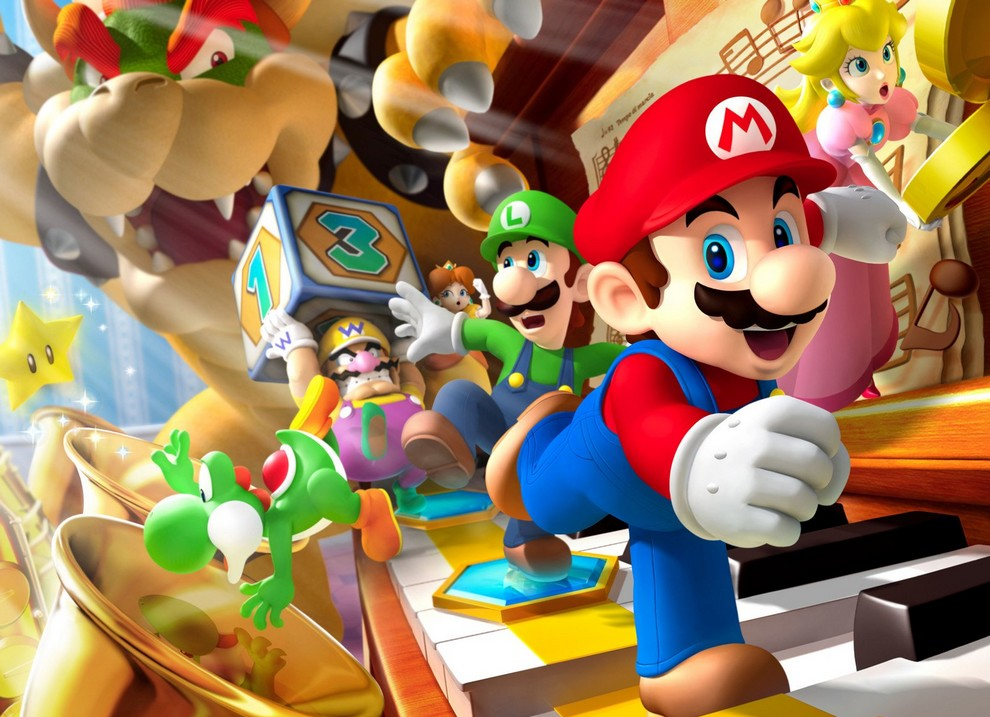
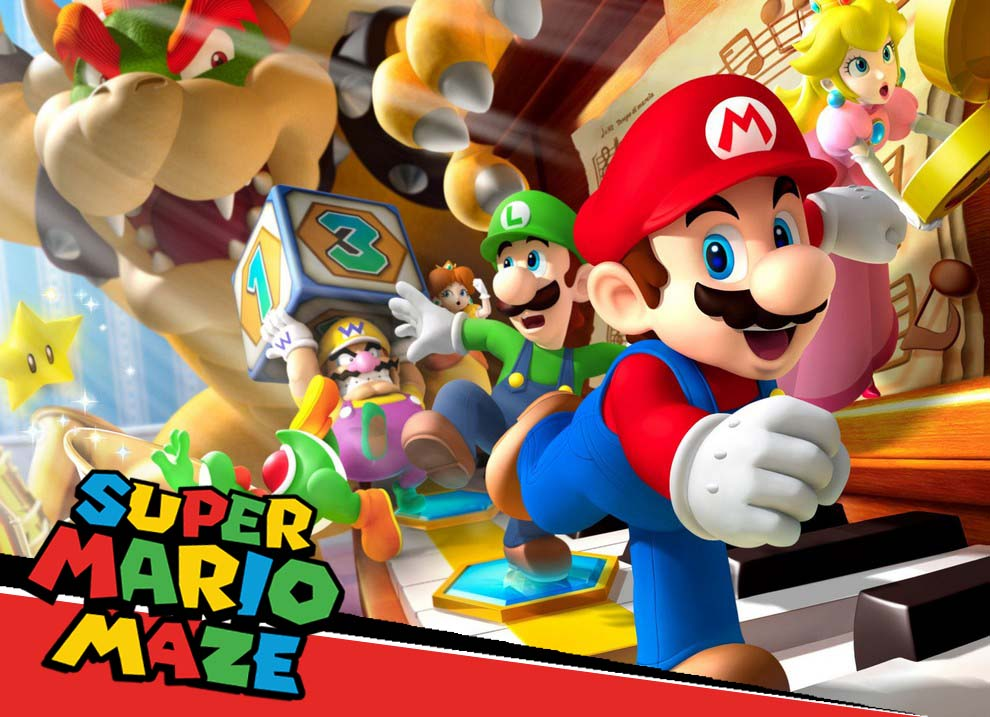
new deisgn menu + game

Changed region(s): [[0.0, 0.6444, 0.9394, 1.0]]

diff --git a/src/vue/MazeGameGUI.java b/src/vue/MazeGameGUI.java
@@ -6,7 +6,10 @@ import java.io.File;
 import java.util.*;
 import java.util.List;
 import javax.swing.*;
+import javax.swing.border.Border;
+import javax.swing.border.CompoundBorder;
 import javax.swing.border.EmptyBorder;
+import javax.swing.border.LineBorder;
 import tools.MazeImageProvider;
 import tools.MazeTreasureImage;
 import model.Coord;
@@ -29,6 +32,8 @@ public class MazeGameGUI extends JFrame implements MouseListener, MouseMotionLis
 	private static final long serialVersionUID = 1L;
 	private JLayeredPane layeredPane;
 	private JLabel tresorToCatch;
+	private JLabel bgGame;
+	private Icon bg;
 	private JLayeredPane mazeContainer;
 	private JPanel generalBoard;
 	private JPanel menu;
@@ -42,7 +47,7 @@ public class MazeGameGUI extends JFrame implements MouseListener, MouseMotionLis
 	private JLabel scoreYoshi;
 	private JLabel scoreLuigi;
 	private JLabel scoreToad;
-	private JLabel player;
+	private JLabel player,playerText;
 	private ImagePanel contentPane;
 	private int xAdjustment;
 	private JButton rotateLeftButton, rotateRightButton;
@@ -72,18 +77,41 @@ public class MazeGameGUI extends JFrame implements MouseListener, MouseMotionLis
 		mazeContainer = new JLayeredPane();
 		mazeContainer.setPreferredSize(windowSize);
 		mazeContainer.setBounds(0, 0, windowSize.width, windowSize.height);
-		
+		Font myFont = new Font("Calibri", Font.ITALIC | Font.BOLD, 18);
+
+	    
 		// on cree le container du menu
 	    b1 = Box.createHorizontalBox();
 		b1.setOpaque(true); // background gris desactive
 		grpButton = new ButtonGroup();
-		nb2Button = new JRadioButton("2 joueurs");
-		nb3Button = new JRadioButton("3 joueurs");
-		nb4Button = new JRadioButton("4 joueurs");
+		nb2Button = new JRadioButton("2 JOUEURS");
+		nb3Button = new JRadioButton("3 JOUEURS");
+		nb4Button = new JRadioButton("4 JOUEURS");
+		
+		nb2Button.setFont(myFont);
+		nb3Button.setFont(myFont);
+		nb4Button.setFont(myFont);
+		
+		nb2Button.setForeground(Color.WHITE);
+		nb2Button.setBackground(Color.BLACK);
+		Border lineRadio1 = new LineBorder(Color.WHITE);
+		Border marginRadio1 = new EmptyBorder(8, 35, 8, 35);
+		Border compoundRadio1 = new CompoundBorder(lineRadio1, marginRadio1);
+		nb2Button.setBorder(compoundRadio1);
 
-		nb2Button.setOpaque(false);
-		nb3Button.setOpaque(false);
-		nb4Button.setOpaque(false);
+		nb3Button.setForeground(Color.WHITE);
+		nb3Button.setBackground(Color.BLACK);
+		Border lineRadio2 = new LineBorder(Color.WHITE);
+		Border marginRadio2 = new EmptyBorder(8, 35, 8, 35);
+		Border compoundRadio2 = new CompoundBorder(lineRadio2, marginRadio2);
+		nb3Button.setBorder(compoundRadio2);
+		
+		nb4Button.setForeground(Color.WHITE);
+		nb4Button.setBackground(Color.BLACK);
+		Border lineRadio3 = new LineBorder(Color.WHITE);
+		Border marginRadio3 = new EmptyBorder(8, 35, 8, 35);
+		Border compoundRadio3 = new CompoundBorder(lineRadio3, marginRadio3);
+		nb4Button.setBorder(compoundRadio3);
 		
 		// ajout des boutons radio dans le groupe bg
 		grpButton.add(nb2Button);
@@ -110,12 +138,26 @@ public class MazeGameGUI extends JFrame implements MouseListener, MouseMotionLis
 		b1.add(nb2Button);
 		b1.add(nb3Button);
 		b1.add(nb4Button);
+		b1.setBorder(BorderFactory.createMatteBorder(
+                1, 1, 1, 1, Color.WHITE));
 		nb2Button.setSelected(true);
 		
 		b2 = Box.createHorizontalBox();
 		b2.setOpaque(false); // background gris desactive
 		// Lancer le jeu
-		okButton = new JButton("Lancer");
+		
+		okButton = new JButton("JOUER");
+		okButton.setForeground(Color.WHITE);
+		okButton.setBackground(Color.BLACK);
+		Border line = new LineBorder(Color.WHITE);
+		Border margin = new EmptyBorder(8, 35, 8, 35);
+		Border compound = new CompoundBorder(line, margin);
+		okButton.setBorder(compound);
+		
+		
+		
+		okButton.setFont(myFont);
+		okButton.setIcon(new ImageIcon(getClass().getResource("../images/icon_play.png")));
 		okButton.addActionListener(new ActionListener() {
 			public void actionPerformed(ActionEvent e) {
 				initMazeGame(nbPlayer);	
@@ -141,7 +183,7 @@ public class MazeGameGUI extends JFrame implements MouseListener, MouseMotionLis
 		contentPane.setPreferredSize(windowSize);
 		setContentPane(contentPane);	
 	}
-	
+
 	public void initMazeGame(int nbPlayer) {
 		Dimension windowSize = new Dimension(950,1000);		
 		Icon imageIcon;
@@ -156,7 +198,8 @@ public class MazeGameGUI extends JFrame implements MouseListener, MouseMotionLis
 		JLabel extraCardImage;	
 		
 		
-		setContentPane(mazeContainer);
+	   	setContentPane(mazeContainer);
+	   	
 		repaint();
 		pack();
 		
@@ -207,17 +250,24 @@ public class MazeGameGUI extends JFrame implements MouseListener, MouseMotionLis
 		}
 		
 		//On crée le panel du joueur actif
-		activePlayer = new JPanel(new BorderLayout());
+		activePlayer = new JPanel(new BorderLayout(1,2));
 		
 		//On crée le label sur lequel le joueur actif sera récupéré
 		player = new JLabel();
-		
+		playerText = new JLabel();
+		playerText.setText("JOUEUR  :" + " ");
 		//On initialise le joueur devant jouer à "Mario"
-		player.setText("Tour du joueur : Mario");
+		File g = new File("");
+		String path = "/src/images/";
+		String ret = g.getAbsolutePath() + path + "pion_rouge.png";
+		bg = new ImageIcon(ret); 
+		player.setIcon(bg);
+		
 		
 		//On ajoute le JLabel sur le JPanel
-		activePlayer.add(player);
-		
+		activePlayer.add(playerText,BorderLayout.PAGE_START);
+		activePlayer.add(player,BorderLayout.PAGE_END);
+		activePlayer.setOpaque(false);		
 		//On definit la taille de la grille generale
 		generalBoard.setPreferredSize(windowSize);
 		generalBoard.setBounds(0, 0, windowSize.width, windowSize.height);
@@ -367,15 +417,24 @@ public class MazeGameGUI extends JFrame implements MouseListener, MouseMotionLis
 		//On cree la zone pour la pile de cartes
 		tresorToCatch.setIcon(imageTreasureToCatch);
 
+		g = new File("");
+		path = "/src/images/";
+		 ret = g.getAbsolutePath() + path + "bgGame.jpg";
+		
+		bg = new ImageIcon(ret);
+		bgGame = new JLabel(); 
+		bgGame.setIcon(bg);
+		
 		generalBoard.add(tresorToCatch,"pos 0.892al 0.458al");
 		generalBoard.add(mazeBoard, "pos 0 0");
 		generalBoard.add(tresorCard, "pos 0.93al 0.45al");
 		generalBoard.add(extraCardPane, "pos 0.92al 0.03al"); //AbsoluteLayout : on positionne en pourcentage de la fenetre
 		generalBoard.add(rotateLeftButton, "pos 0.915al 0al");
 		generalBoard.add(rotateRightButton, "pos 0.91al 0.135al");
-		generalBoard.add(activePlayer, "pos 0.94al 0.25al");
+		generalBoard.add(activePlayer, "pos 0.901al 0.25al");
 		generalBoard.add(scores, "pos 0.98al 0.65al");
-
+		generalBoard.add(bgGame,"pos 0 0");
+		
 		mazeContainer.add(generalBoard);
 		// TODO n'ecouter que les pions eventuellement
 		mazeBoard.addMouseListener(this);
@@ -553,18 +612,23 @@ public class MazeGameGUI extends JFrame implements MouseListener, MouseMotionLis
 			}
 
 			this.mazeGameControler.switchJoueur();
+			File g = new File("");
+			String path = "/src/images/";
+			String ret = "";
 			if(mazeGameControler.getColorCurrentPlayer() == Couleur.ROUGE) {
-				player.setText("Tour du joueur : Mario");
+				ret = g.getAbsolutePath() + path + "pion_rouge.png";
 			}
 			else if(mazeGameControler.getColorCurrentPlayer() == Couleur.BLEU) {
-				player.setText("Tour du joueur : Luigi");
+				ret = g.getAbsolutePath() + path + "pion_bleu.png";
 			}
 			else if(mazeGameControler.getColorCurrentPlayer() == Couleur.JAUNE) {
-				player.setText("Tour du joueur : Yoshi");
+				ret = g.getAbsolutePath() + path + "pion_jaune.png";
 			}
 			else if(mazeGameControler.getColorCurrentPlayer() == Couleur.VERT) {
-				player.setText("Tour du joueur : Toad");
+				ret = g.getAbsolutePath() + path + "pion_vert.png";
 			}
+			bg = new ImageIcon(ret); 
+			player.setIcon(bg);
 			treasureToCatch = this.mazeGameControler
 					.currentTreasureToCatch();
 	
